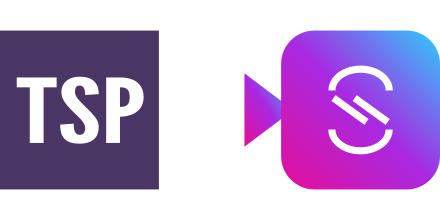
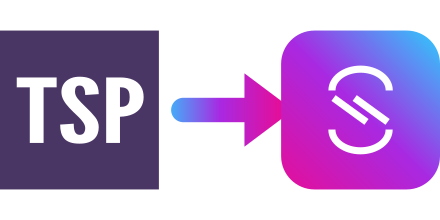
chore: auto-commit 10 changed file(s) (heuristic)
Daemon: true

Changed region(s): [[0.3841, 0.3545, 0.65, 0.6], [0.5318, 0.6, 0.5909, 0.6545]]

diff --git a/docs/logo-concepts.html b/docs/logo-concepts.html
@@ -658,8 +658,38 @@ body[data-motion="off"] .sealring{animation-play-state:paused}
   <li class="card"><figure class="tile t-dark ownbg" aria-hidden="true"><svg viewBox="0 0 100 100" aria-hidden="true"><defs><linearGradient id="f56b" x1="0" y1="0" x2="1" y2="1"><stop offset="0" stop-color="#7C3AED"/><stop offset="1" stop-color="#5B21B6"/></linearGradient></defs><svg x="33" y="6" width="34" height="34" viewBox="0 0 100 100"><rect width="100" height="100" fill="#4A3665"/><path transform="matrix(15.178627,0,0,10.583627,-3371.045947,-1496.785073)" d="M 223.327 148.108 L 223.327 144.801 L 222.786 144.801 L 222.786 144.213 L 224.44 144.213 L 224.44 144.801 L 223.899 144.801 L 223.899 148.108 Z M 225.391 148.15 Q 225.156 148.15 224.999 148.072 Q 224.843 147.994 224.753 147.846 Q 224.663 147.697 224.624 147.488 Q 224.586 147.279 224.586 147.016 L 225.148 146.963 Q 225.148 147.09 225.157 147.208 Q 225.166 147.326 225.191 147.42 Q 225.217 147.514 225.266 147.57 Q 225.315 147.626 225.391 147.626 Q 225.519 147.626 225.572 147.508 Q 225.625 147.39 225.625 147.223 Q 225.625 147.056 225.537 146.876 Q 225.45 146.696 225.328 146.534 Q 225.121 146.258 224.966 146.022 Q 224.811 145.787 224.725 145.559 Q 224.639 145.331 224.639 145.082 Q 224.639 144.886 224.689 144.72 Q 224.74 144.554 224.836 144.431 Q 224.933 144.308 225.071 144.239 Q 225.209 144.17 225.386 144.17 Q 225.606 144.17 225.758 144.244 Q 225.911 144.319 226.005 144.456 Q 226.099 144.594 226.143 144.784 Q 226.186 144.973 226.186 145.204 L 225.625 145.257 Q 225.625 145.159 225.615 145.059 Q 225.606 144.96 225.582 144.878 Q 225.558 144.796 225.513 144.745 Q 225.468 144.695 225.397 144.695 Q 225.285 144.695 225.243 144.789 Q 225.201 144.883 225.201 145.055 Q 225.201 145.278 225.32 145.485 Q 225.439 145.691 225.641 145.967 Q 225.882 146.293 226.034 146.566 Q 226.186 146.839 226.186 147.17 Q 226.186 147.379 226.141 147.558 Q 226.096 147.737 226 147.87 Q 225.903 148.002 225.753 148.076 Q 225.603 148.15 225.391 148.15 Z M 226.494 148.108 L 226.494 144.213 L 227.066 144.213 Q 227.392 144.213 227.611 144.356 Q 227.829 144.499 227.938 144.761 Q 228.047 145.023 228.047 145.379 Q 228.047 145.734 227.933 145.991 Q 227.819 146.248 227.6 146.392 Q 227.381 146.537 227.066 146.55 L 227.066 148.108 Z M 227.066 145.967 Q 227.217 145.967 227.305 145.907 Q 227.392 145.848 227.43 145.718 Q 227.469 145.588 227.469 145.384 Q 227.469 145.177 227.43 145.047 Q 227.392 144.917 227.303 144.856 Q 227.214 144.796 227.066 144.796 Z" fill="#FFFFFF"/></svg><rect x="37" y="43" width="26" height="14" rx="4" fill="url(#f56b)"/><path d="M50 46 v6 m-3.5 -3 l3.5 3.5 l3.5 -3.5" stroke="#FFFFFF" stroke-width="2.4" stroke-linecap="round" stroke-linejoin="round" fill="none"/><svg x="33" y="60" width="34" height="34" viewBox="0 0 100 100"><rect width="100" height="100" rx="21" fill="url(#aaTile)"/><g transform="scale(0.643)" fill="#FFFFFF"><polygon points="53.35 63.21 49.25 68.86 81.27 92.1 81.49 92.26 85.59 86.61 53.57 63.37 53.35 63.21"/><polygon points="74.27 63.37 74.05 63.21 69.95 68.86 101.97 92.1 102.19 92.26 106.29 86.61 74.27 63.37"/><path d="M77.78,34.29c-17.35,0-31.48,10.79-31.48,24.06v.27h7v-.27c0-9.42,11-17.08,24.5-17.08s24.51,7.66,24.51,17.08v.27h7v-.27C109.27,45.08,95.14,34.29,77.78,34.29Z"/><path d="M102.23,97.16c0,9.42-11,17.08-24.51,17.08s-24.5-7.66-24.5-17.08v-.27h-7v.27c0,13.26,14.13,24,31.48,24s31.49-10.79,31.49-24v-.27h-7Z"/></g></svg></svg></figure>
   <div class="meta"><p class="name"><span class="num">56</span>Pipeline Lockup</p><p class="tags"><span class="chip c-svg">svg</span><span class="how">46's stack · marks only · block connector</span></p></div></li>
 
-  <li class="card"><figure class="tile t-dark ownbg" aria-hidden="true"><svg viewBox="0 0 160 100" aria-hidden="true" font-family="'Space Grotesk',sans-serif" font-weight="700"><svg x="10" y="10" width="26" height="26" viewBox="0 0 100 100"><rect width="100" height="100" fill="#4A3665"/><path transform="matrix(15.178627,0,0,10.583627,-3371.045947,-1496.785073)" d="M 223.327 148.108 L 223.327 144.801 L 222.786 144.801 L 222.786 144.213 L 224.44 144.213 L 224.44 144.801 L 223.899 144.801 L 223.899 148.108 Z M 225.391 148.15 Q 225.156 148.15 224.999 148.072 Q 224.843 147.994 224.753 147.846 Q 224.663 147.697 224.624 147.488 Q 224.586 147.279 224.586 147.016 L 225.148 146.963 Q 225.148 147.09 225.157 147.208 Q 225.166 147.326 225.191 147.42 Q 225.217 147.514 225.266 147.57 Q 225.315 147.626 225.391 147.626 Q 225.519 147.626 225.572 147.508 Q 225.625 147.39 225.625 147.223 Q 225.625 147.056 225.537 146.876 Q 225.45 146.696 225.328 146.534 Q 225.121 146.258 224.966 146.022 Q 224.811 145.787 224.725 145.559 Q 224.639 145.331 224.639 145.082 Q 224.639 144.886 224.689 144.72 Q 224.74 144.554 224.836 144.431 Q 224.933 144.308 225.071 144.239 Q 225.209 144.17 225.386 144.17 Q 225.606 144.17 225.758 144.244 Q 225.911 144.319 226.005 144.456 Q 226.099 144.594 226.143 144.784 Q 226.186 144.973 226.186 145.204 L 225.625 145.257 Q 225.625 145.159 225.615 145.059 Q 225.606 144.96 225.582 144.878 Q 225.558 144.796 225.513 144.745 Q 225.468 144.695 225.397 144.695 Q 225.285 144.695 225.243 144.789 Q 225.201 144.883 225.201 145.055 Q 225.201 145.278 225.32 145.485 Q 225.439 145.691 225.641 145.967 Q 225.882 146.293 226.034 146.566 Q 226.186 146.839 226.186 147.17 Q 226.186 147.379 226.141 147.558 Q 226.096 147.737 226 147.87 Q 225.903 148.002 225.753 148.076 Q 225.603 148.15 225.391 148.15 Z M 226.494 148.108 L 226.494 144.213 L 227.066 144.213 Q 227.392 144.213 227.611 144.356 Q 227.829 144.499 227.938 144.761 Q 228.047 145.023 228.047 145.379 Q 228.047 145.734 227.933 145.991 Q 227.819 146.248 227.6 146.392 Q 227.381 146.537 227.066 146.55 L 227.066 148.108 Z M 227.066 145.967 Q 227.217 145.967 227.305 145.907 Q 227.392 145.848 227.43 145.718 Q 227.469 145.588 227.469 145.384 Q 227.469 145.177 227.43 145.047 Q 227.392 144.917 227.303 144.856 Q 227.214 144.796 227.066 144.796 Z" fill="#FFFFFF"/></svg><text x="44" y="29" font-size="16" fill="#EDEFF7">typespec</text><rect x="10" y="44" width="88" height="22" rx="4" fill="#5B21B6"/><text x="20" y="60" font-size="13" letter-spacing="2" fill="#FFFFFF">→ EMITS</text><svg x="10" y="72" width="26" height="26" viewBox="0 0 100 100"><rect width="100" height="100" rx="21" fill="url(#aaTile)"/><g transform="scale(0.643)" fill="#FFFFFF"><polygon points="53.35 63.21 49.25 68.86 81.27 92.1 81.49 92.26 85.59 86.61 53.57 63.37 53.35 63.21"/><polygon points="74.27 63.37 74.05 63.21 69.95 68.86 101.97 92.1 102.19 92.26 106.29 86.61 74.27 63.37"/><path d="M77.78,34.29c-17.35,0-31.48,10.79-31.48,24.06v.27h7v-.27c0-9.42,11-17.08,24.5-17.08s24.51,7.66,24.51,17.08v.27h7v-.27C109.27,45.08,95.14,34.29,77.78,34.29Z"/><path d="M102.23,97.16c0,9.42-11,17.08-24.51,17.08s-24.5-7.66-24.5-17.08v-.27h-7v.27c0,13.26,14.13,24,31.48,24s31.49-10.79,31.49-24v-.27h-7Z"/></g></svg><text x="44" y="91" font-size="16" fill="url(#aaTile)">asyncapi</text></svg></figure>
-  <div class="meta"><p class="name"><span class="num">57</span>Annotated Pipeline</p><p class="tags"><span class="chip c-svg">svg</span><span class="how">46's full structure · marks + captions</span></p></div></li>
+  <li class="card"><figure class="tile t-dark ownbg" aria-hidden="true"><svg viewBox="0 0 126 112" aria-hidden="true">
+  <defs>
+    <linearGradient id="f57aa" x1="1" y1="0" x2="0" y2="1">
+      <stop offset="0" stop-color="#2DCCFD" />
+      <stop offset="0.5" stop-color="#A829E2" />
+      <stop offset="1" stop-color="#E50E99" />
+    </linearGradient>
+    <linearGradient id="f57blk" x1="1" y1="0" x2="0" y2="1">
+      <stop offset="0" stop-color="#7C3AED" />
+      <stop offset="1" stop-color="#5B21B6" />
+    </linearGradient>
+  </defs>
+  <g transform="translate(6 6) scale(0.3)">
+    <rect width="100" height="100" fill="#4A3665" />
+    <path transform="matrix(15.178627,0,0,10.583627,-3371.045947,-1496.785073)" d="M 223.327 148.108 L 223.327 144.801 L 222.786 144.801 L 222.786 144.213 L 224.44 144.213 L 224.44 144.801 L 223.899 144.801 L 223.899 148.108 Z M 225.391 148.15 Q 225.156 148.15 224.999 148.072 Q 224.843 147.994 224.753 147.846 Q 224.663 147.697 224.624 147.488 Q 224.586 147.279 224.586 147.016 L 225.148 146.963 Q 225.148 147.09 225.157 147.208 Q 225.166 147.326 225.191 147.42 Q 225.217 147.514 225.266 147.57 Q 225.315 147.626 225.391 147.626 Q 225.519 147.626 225.572 147.508 Q 225.625 147.39 225.625 147.223 Q 225.625 147.056 225.537 146.876 Q 225.45 146.696 225.328 146.534 Q 225.121 146.258 224.966 146.022 Q 224.811 145.787 224.725 145.559 Q 224.639 145.331 224.639 145.082 Q 224.639 144.886 224.689 144.72 Q 224.74 144.554 224.836 144.431 Q 224.933 144.308 225.071 144.239 Q 225.209 144.17 225.386 144.17 Q 225.606 144.17 225.758 144.244 Q 225.911 144.319 226.005 144.456 Q 226.099 144.594 226.143 144.784 Q 226.186 144.973 226.186 145.204 L 225.625 145.257 Q 225.625 145.159 225.615 145.059 Q 225.606 144.96 225.582 144.878 Q 225.558 144.796 225.513 144.745 Q 225.468 144.695 225.397 144.695 Q 225.285 144.695 225.243 144.789 Q 225.201 144.883 225.201 145.055 Q 225.201 145.278 225.32 145.485 Q 225.439 145.691 225.641 145.967 Q 225.882 146.293 226.034 146.566 Q 226.186 146.839 226.186 147.17 Q 226.186 147.379 226.141 147.558 Q 226.096 147.737 226 147.87 Q 225.903 148.002 225.753 148.076 Q 225.603 148.15 225.391 148.15 Z M 226.494 148.108 L 226.494 144.213 L 227.066 144.213 Q 227.392 144.213 227.611 144.356 Q 227.829 144.499 227.938 144.761 Q 228.047 145.023 228.047 145.379 Q 228.047 145.734 227.933 145.991 Q 227.819 146.248 227.6 146.392 Q 227.381 146.537 227.066 146.55 L 227.066 148.108 Z M 227.066 145.967 Q 227.217 145.967 227.305 145.907 Q 227.392 145.848 227.43 145.718 Q 227.469 145.588 227.469 145.384 Q 227.469 145.177 227.43 145.047 Q 227.392 144.917 227.303 144.856 Q 227.214 144.796 227.066 144.796 Z" fill="#FFFFFF" />
+  </g>
+  <text x="44" y="27" font-family="'Space Grotesk', 'Helvetica Neue', Arial, sans-serif" font-size="17" font-weight="700" letter-spacing="-0.3" fill="#EDEFF7">TypeSpec</text>
+  <rect x="6" y="44" width="88" height="24" rx="5" fill="url(#f57blk)" />
+  <path d="M20 56H34M29.5 51.5L34 56L29.5 60.5" fill="none" stroke="#FFFFFF" stroke-width="2.2" stroke-linecap="round" stroke-linejoin="round" />
+  <text x="42" y="60" font-family="'JetBrains Mono', ui-monospace, 'SFMono-Regular', Menlo, monospace" font-size="11" font-weight="700" letter-spacing="1.5" fill="#FFFFFF">EMITS</text>
+  <g transform="translate(6 76) scale(0.3)">
+  <rect width="100" height="100" rx="21" fill="url(#f57aa)" />
+    <g transform="scale(0.643)" fill="#FFFFFF">
+      <polygon points="53.35 63.21 49.25 68.86 81.27 92.1 81.49 92.26 85.59 86.61 53.57 63.37 53.35 63.21" />
+      <polygon points="74.27 63.37 74.05 63.21 69.95 68.86 101.97 92.1 102.19 92.26 106.29 86.61 74.27 63.37" />
+      <path d="M77.78,34.29c-17.35,0-31.48,10.79-31.48,24.06v.27h7v-.27c0-9.42,11-17.08,24.5-17.08s24.51,7.66,24.51,17.08v.27h7v-.27C109.27,45.08,95.14,34.29,77.78,34.29Z" />
+      <path d="M102.23,97.16c0,9.42-11,17.08-24.51,17.08s-24.5-7.66-24.5-17.08v-.27h-7v.27c0,13.26,14.13,24,31.48,24s31.49-10.79,31.49-24v-.27h-7Z" />
+    </g>
+  </g>
+  <text x="44" y="97" font-family="'Space Grotesk', 'Helvetica Neue', Arial, sans-serif" font-size="17" font-weight="700" letter-spacing="-0.3" fill="url(#f57aa)">AsyncAPI</text>
+</svg></figure>
+  <div class="meta"><p class="name"><span class="num">57</span>Annotated Pipeline<span class="chip c-ship">shipped</span></p><p class="tags"><span class="chip c-svg">svg</span><span class="how">126 × 112 · gradient emit block · drawn arrow</span></p></div></li>
 
   <li class="card"><figure class="tile t-dark ownbg" aria-hidden="true"><svg viewBox="0 0 100 100" aria-hidden="true"><g filter="url(#m19f)"><svg x="12" y="12" width="36" height="36" viewBox="0 0 100 100"><rect width="100" height="100" fill="#4A3665"/><path transform="matrix(15.178627,0,0,10.583627,-3371.045947,-1496.785073)" d="M 223.327 148.108 L 223.327 144.801 L 222.786 144.801 L 222.786 144.213 L 224.44 144.213 L 224.44 144.801 L 223.899 144.801 L 223.899 148.108 Z M 225.391 148.15 Q 225.156 148.15 224.999 148.072 Q 224.843 147.994 224.753 147.846 Q 224.663 147.697 224.624 147.488 Q 224.586 147.279 224.586 147.016 L 225.148 146.963 Q 225.148 147.09 225.157 147.208 Q 225.166 147.326 225.191 147.42 Q 225.217 147.514 225.266 147.57 Q 225.315 147.626 225.391 147.626 Q 225.519 147.626 225.572 147.508 Q 225.625 147.39 225.625 147.223 Q 225.625 147.056 225.537 146.876 Q 225.45 146.696 225.328 146.534 Q 225.121 146.258 224.966 146.022 Q 224.811 145.787 224.725 145.559 Q 224.639 145.331 224.639 145.082 Q 224.639 144.886 224.689 144.72 Q 224.74 144.554 224.836 144.431 Q 224.933 144.308 225.071 144.239 Q 225.209 144.17 225.386 144.17 Q 225.606 144.17 225.758 144.244 Q 225.911 144.319 226.005 144.456 Q 226.099 144.594 226.143 144.784 Q 226.186 144.973 226.186 145.204 L 225.625 145.257 Q 225.625 145.159 225.615 145.059 Q 225.606 144.96 225.582 144.878 Q 225.558 144.796 225.513 144.745 Q 225.468 144.695 225.397 144.695 Q 225.285 144.695 225.243 144.789 Q 225.201 144.883 225.201 145.055 Q 225.201 145.278 225.32 145.485 Q 225.439 145.691 225.641 145.967 Q 225.882 146.293 226.034 146.566 Q 226.186 146.839 226.186 147.17 Q 226.186 147.379 226.141 147.558 Q 226.096 147.737 226 147.87 Q 225.903 148.002 225.753 148.076 Q 225.603 148.15 225.391 148.15 Z M 226.494 148.108 L 226.494 144.213 L 227.066 144.213 Q 227.392 144.213 227.611 144.356 Q 227.829 144.499 227.938 144.761 Q 228.047 145.023 228.047 145.379 Q 228.047 145.734 227.933 145.991 Q 227.819 146.248 227.6 146.392 Q 227.381 146.537 227.066 146.55 L 227.066 148.108 Z M 227.066 145.967 Q 227.217 145.967 227.305 145.907 Q 227.392 145.848 227.43 145.718 Q 227.469 145.588 227.469 145.384 Q 227.469 145.177 227.43 145.047 Q 227.392 144.917 227.303 144.856 Q 227.214 144.796 227.066 144.796 Z" fill="#FFFFFF"/></svg></g><g filter="url(#m19f)"><svg x="52" y="52" width="36" height="36" viewBox="0 0 100 100"><rect width="100" height="100" rx="21" fill="url(#aaTile)"/><g transform="scale(0.643)" fill="#FFFFFF"><polygon points="53.35 63.21 49.25 68.86 81.27 92.1 81.49 92.26 85.59 86.61 53.57 63.37 53.35 63.21"/><polygon points="74.27 63.37 74.05 63.21 69.95 68.86 101.97 92.1 102.19 92.26 106.29 86.61 74.27 63.37"/><path d="M77.78,34.29c-17.35,0-31.48,10.79-31.48,24.06v.27h7v-.27c0-9.42,11-17.08,24.5-17.08s24.51,7.66,24.51,17.08v.27h7v-.27C109.27,45.08,95.14,34.29,77.78,34.29Z"/><path d="M102.23,97.16c0,9.42-11,17.08-24.51,17.08s-24.5-7.66-24.5-17.08v-.27h-7v.27c0,13.26,14.13,24,31.48,24s31.49-10.79,31.49-24v-.27h-7Z"/></g></svg></g><path d="M42 44 L57 57" stroke="url(#aaBridge)" stroke-width="5" stroke-linecap="round"/><polygon points="61,61 47,57.5 57.5,47" fill="url(#aaTile)"/></svg></figure>
   <div class="meta"><p class="name"><span class="num">58</span>Stagger Duo</p><p class="tags"><span class="chip c-svg">svg</span><span class="how">diagonal handoff · gradient arrow</span></p></div></li>

diff --git a/scripts/generate-brand-assets.ts b/scripts/generate-brand-assets.ts
@@ -185,19 +185,29 @@ function renderLockupSvg(variant: "dark" | "light"): string {
   return `${lines.join("\n")}\n`;
 }
 
+function arrowGradientLines(id: string, depth: number): string[] {
+  return [
+    `${pad(depth)}<linearGradient id="${id}" gradientUnits="userSpaceOnUse" x1="26" y1="18" x2="46" y2="18">`,
+    ...stopLines(ASYNCAPI_GRADIENT, depth + 1),
+    `${pad(depth)}</linearGradient>`,
+  ];
+}
+
 function renderMarkSvg(): string {
   const aaFill = "url(#taaMarkAa)";
+  const arrowFill = "url(#taaMarkArrow)";
   const lines = [
     '<svg xmlns="http://www.w3.org/2000/svg" viewBox="0 0 72 36" width="72" height="36" role="img" aria-labelledby="taaMarkTitle">',
     '<title id="taaMarkTitle">TypeSpec emits AsyncAPI</title>',
     "<defs>",
     ...gradientElement("taaMarkAa", ASYNCAPI_GRADIENT, 1),
+    ...arrowGradientLines("taaMarkArrow", 1),
     "</defs>",
     '<g transform="translate(0 5) scale(0.26)">',
     ...tspTileBody().map((line) => pad(1) + line),
     "</g>",
-    `<path d="M30 18H40" stroke="${aaFill}" stroke-width="4" stroke-linecap="round" />`,
-    `<polygon points="40,12 48,18 40,24" fill="${aaFill}" />`,
+    `<path d="M30 18H40" stroke="${arrowFill}" stroke-width="4" stroke-linecap="round" />`,
+    `<polygon points="40,12 48,18 40,24" fill="${arrowFill}" />`,
     '<g transform="translate(46 5) scale(0.26)">',
     ...[
       `<rect width="100" height="100" rx="21" fill="${aaFill}" />`,
@@ -233,6 +243,7 @@ const {
 } = Astro.props;
 
 const aaId = "taa-mark-aa-" + id;
+const arrowId = "taa-mark-arrow-" + id;
 ---
 
 <svg
@@ -249,14 +260,24 @@ const aaId = "taa-mark-aa-" + id;
     <linearGradient id={aaId} x1="1" y1="0" x2="0" y2="1">
 ${stopLines(ASYNCAPI_GRADIENT, 3).join("\n")}
     </linearGradient>
+    <linearGradient
+      id={arrowId}
+      gradientUnits="userSpaceOnUse"
+      x1="26"
+      y1="18"
+      x2="46"
+      y2="18"
+    >
+${stopLines(ASYNCAPI_GRADIENT, 3).join("\n")}
+    </linearGradient>
   </defs>
   <g transform="translate(0 5) scale(0.26)">
 ${tspTileBody()
   .map((line) => pad(2) + line)
   .join("\n")}
   </g>
-  <path d="M30 18H40" stroke=${aaUrl("aaId")} stroke-width="4" stroke-linecap="round" />
-  <polygon points="40,12 48,18 40,24" fill=${aaUrl("aaId")} />
+  <path d="M30 18H40" stroke=${aaUrl("arrowId")} stroke-width="4" stroke-linecap="round" />
+  <polygon points="40,12 48,18 40,24" fill=${aaUrl("arrowId")} />
   <g transform="translate(46 5) scale(0.26)">
     <rect width="100" height="100" rx="21" fill=${aaUrl("aaId")} />
 ${asyncApiGlyphBody()
